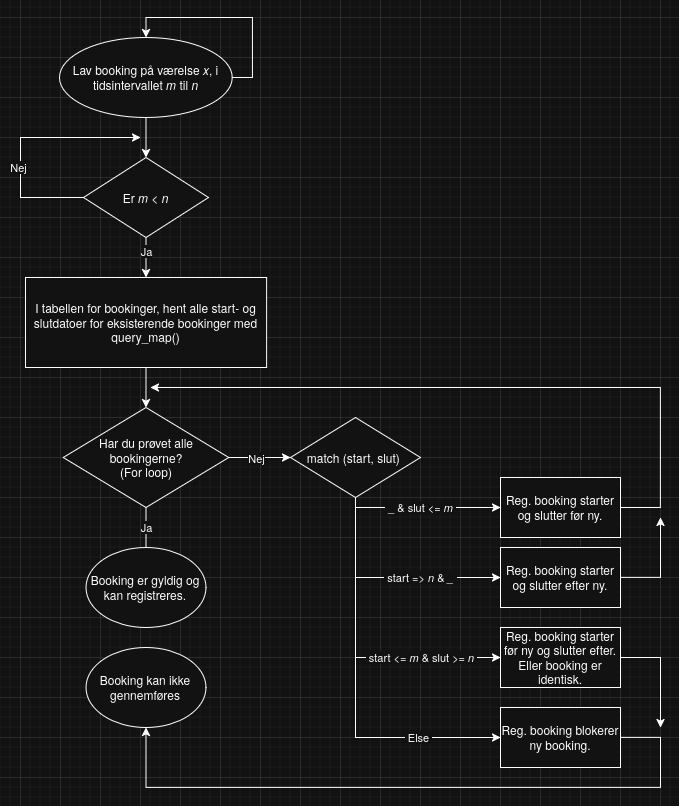
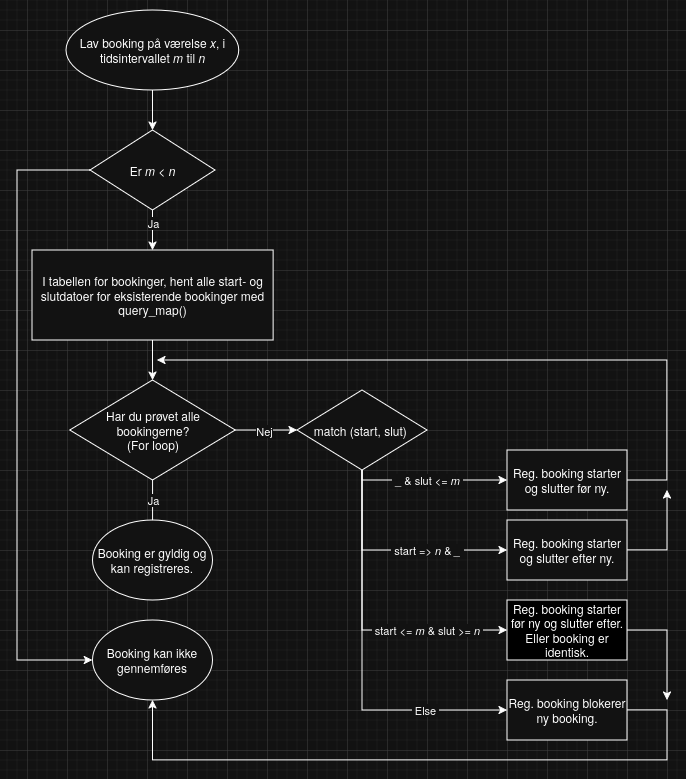
Add comment about BuffWriter in help()

diff --git a/src/commands.rs b/src/commands.rs
@@ -129,7 +129,7 @@ pub fn show(conn: &Connection) -> Result<()> {
 }
 
 pub fn help() {
-    // Show documentation
+    // Show documentation. This could also be refactored to look more nicely, and retain performance by using a BuffWriter.
     println!(
         "Skill issue - get better. But just because you asked nicely ;)\n
 The following commands are available:\n
